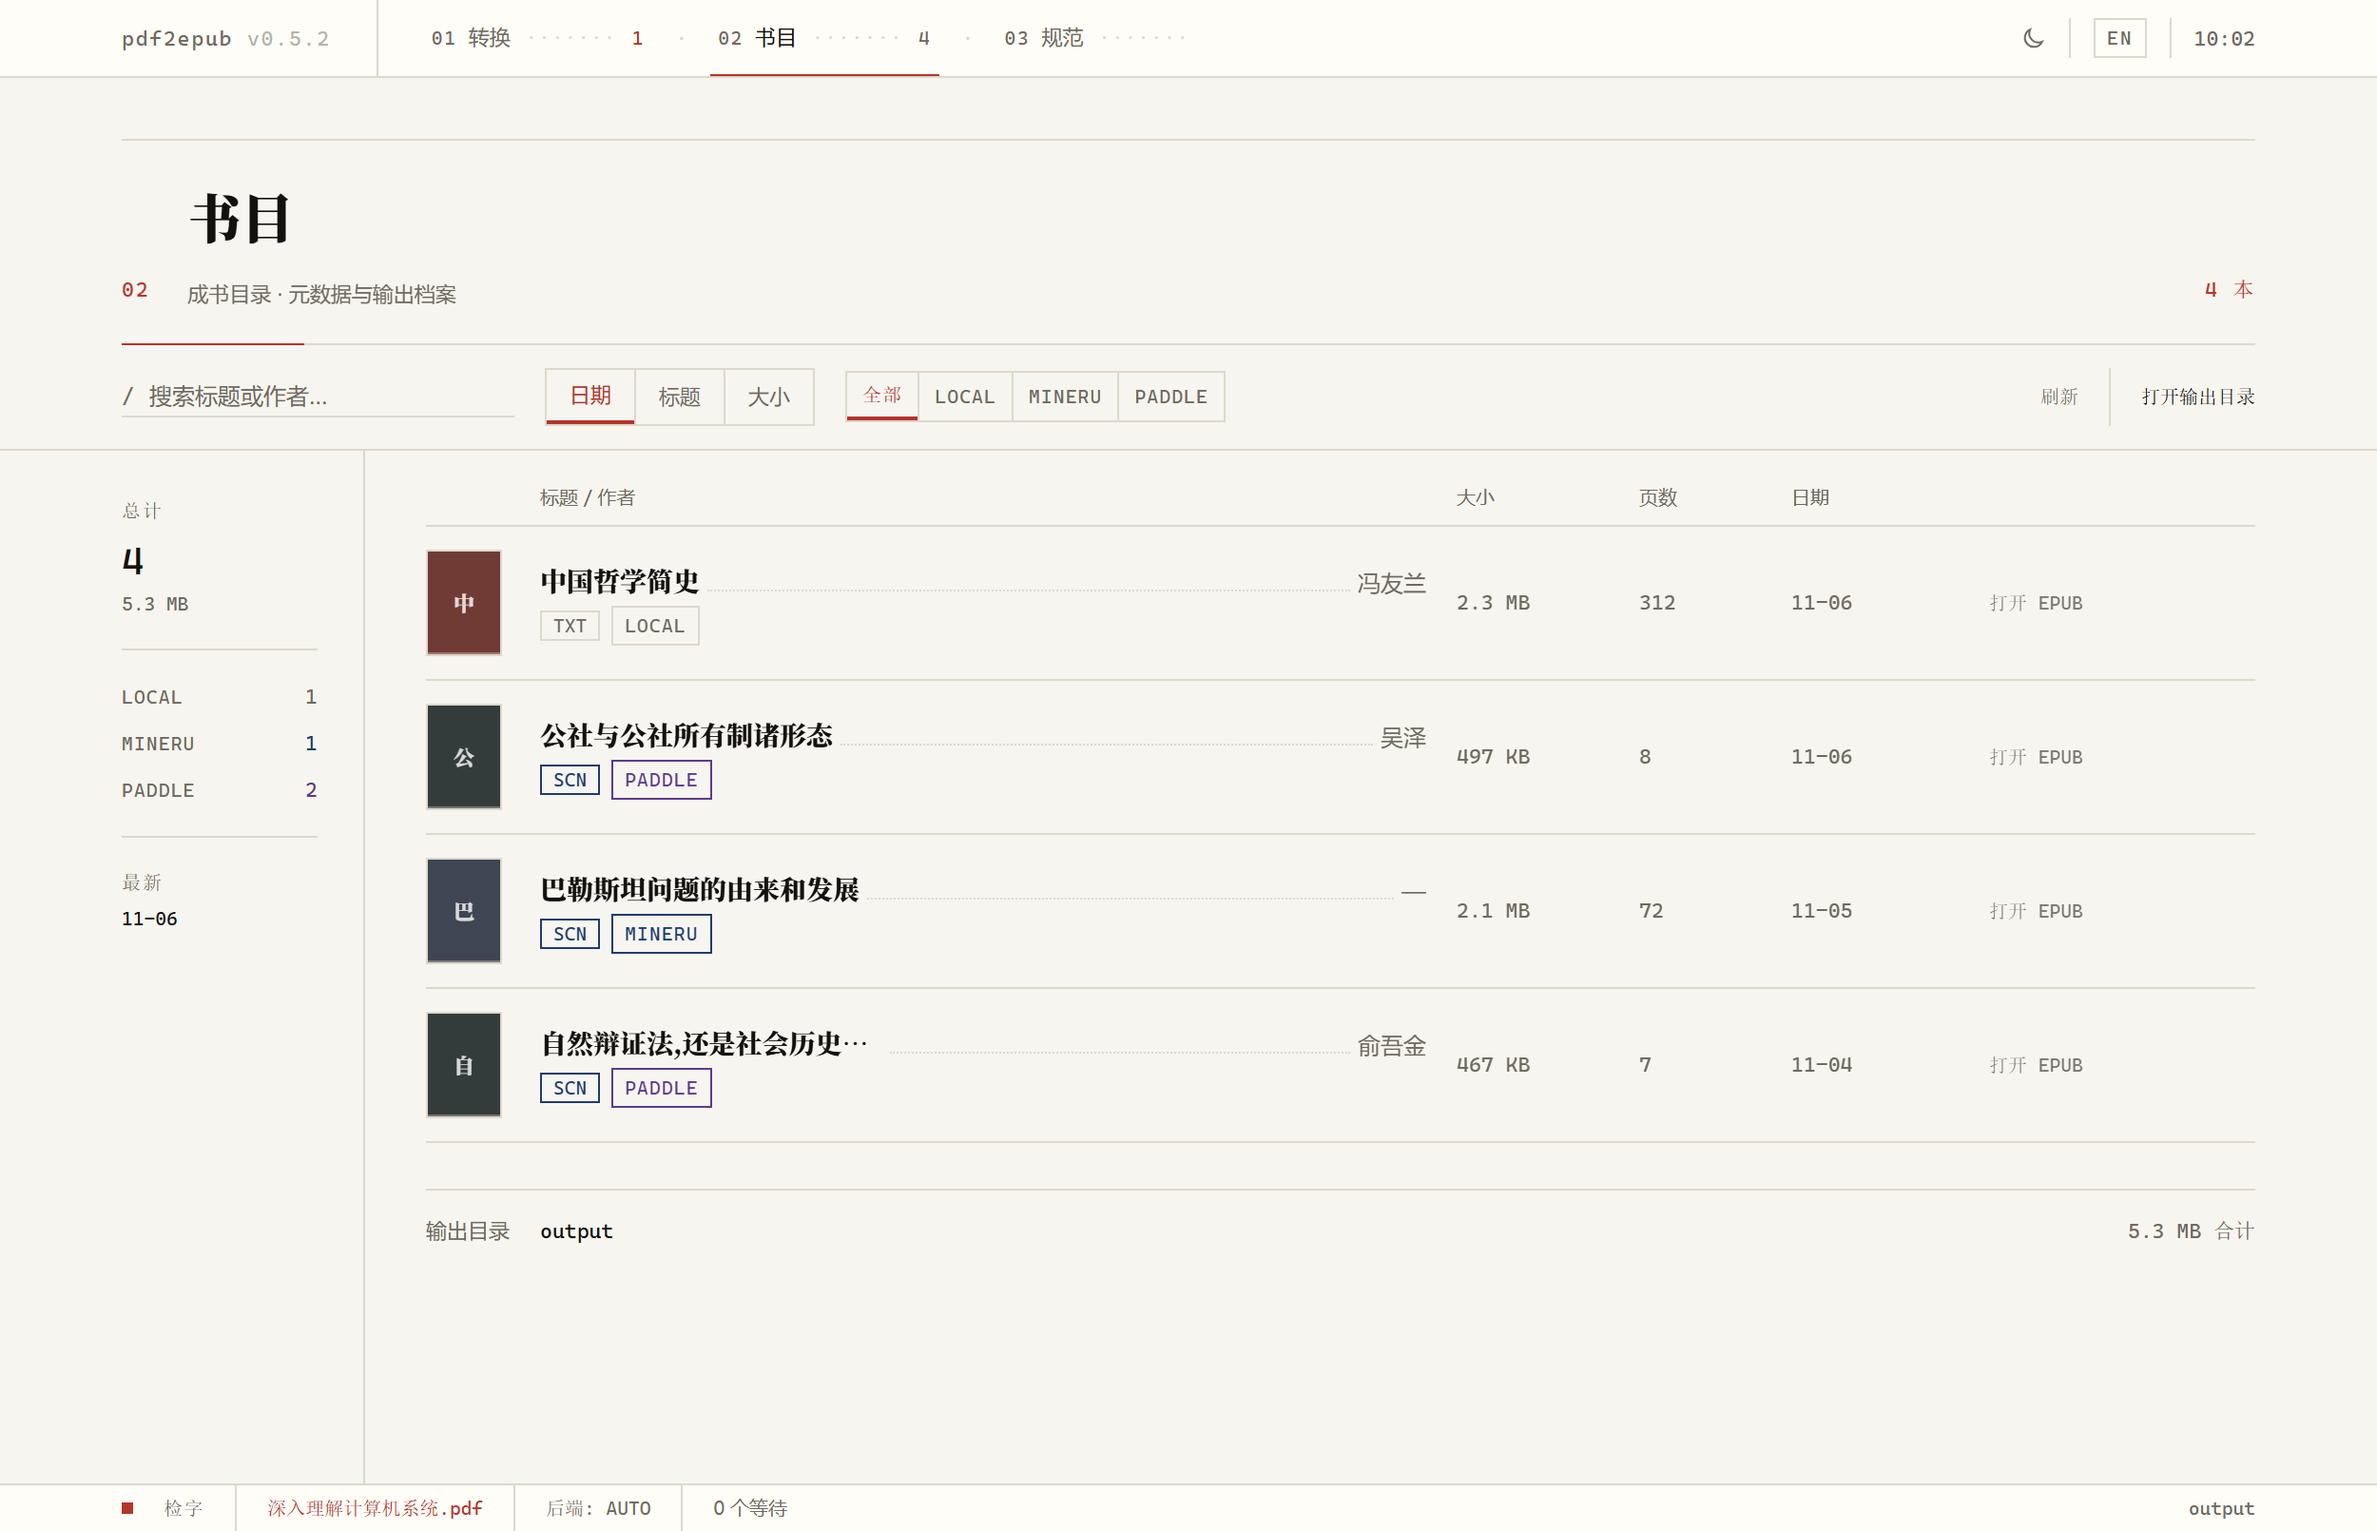
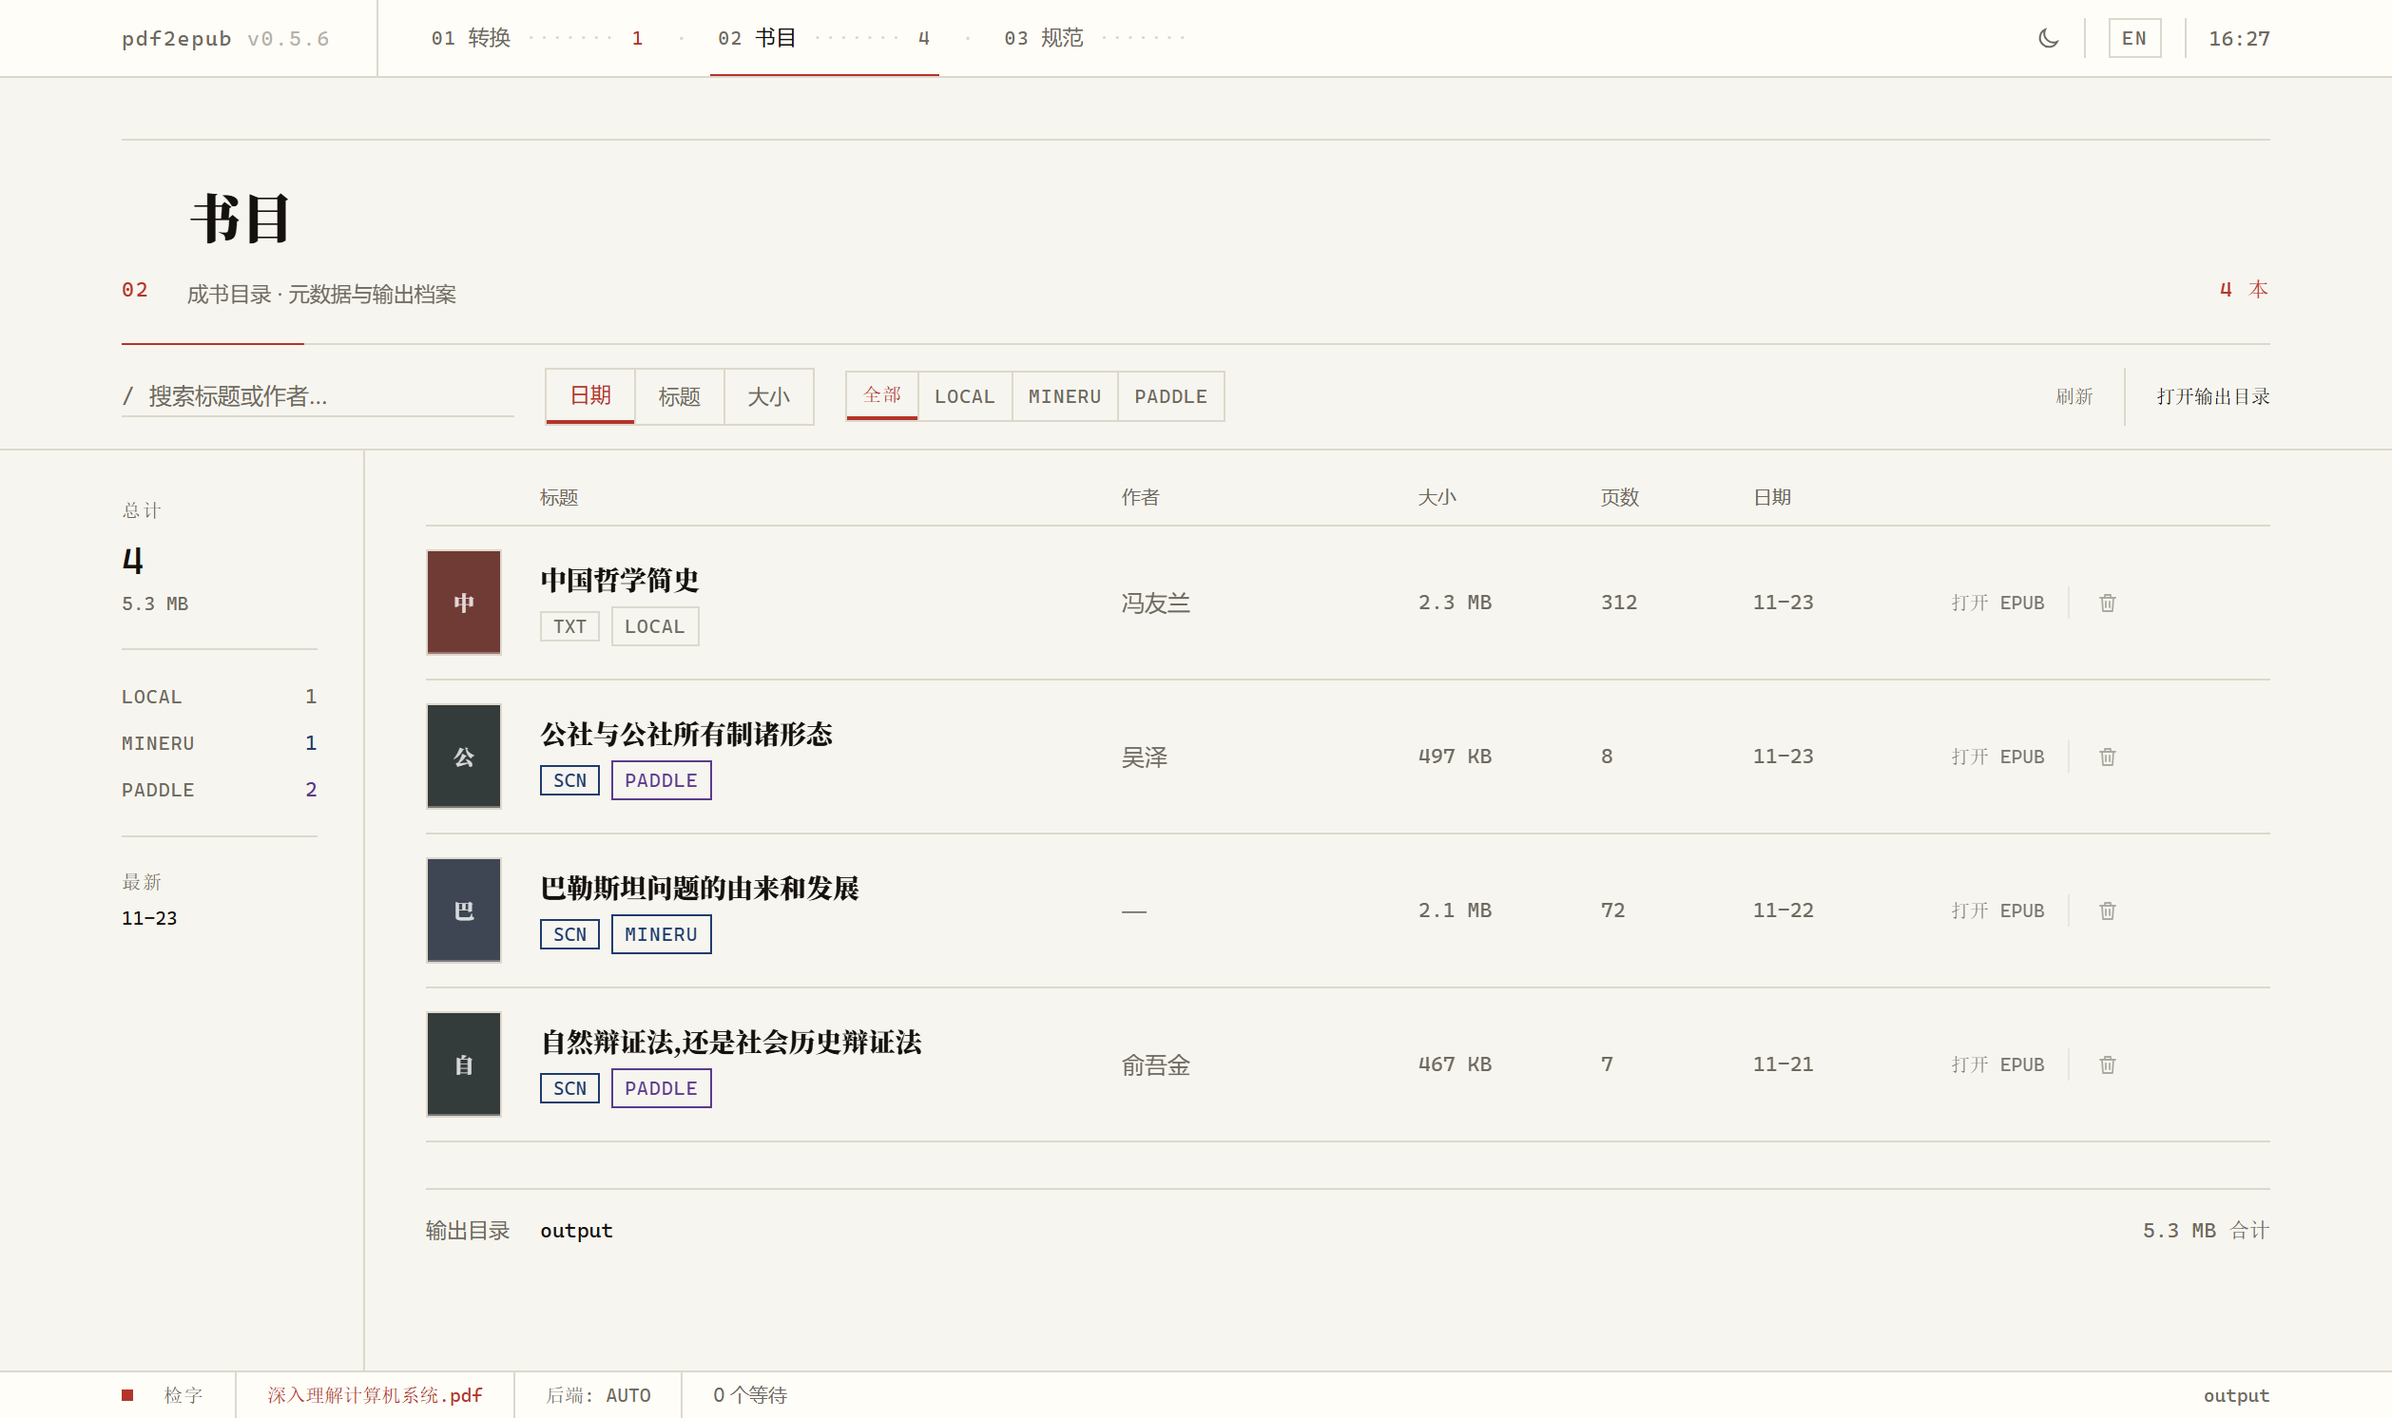
文档:重生成桌面端截图,并按当前模块同步目录结构
- 五张 README 截图是 11-06 拍的,晚于它们的界面改动没有反映进去:书目「标题 /
  作者」分列、队列操作列对齐、预检结果缓存、导入即弹复核表。用
  `desktop/scripts/shot-readme.mjs` 对着当前构建重拍(真实事件链路,不是拼贴):
  convert-light / convert-dark / review-sheet / settings-light / library-light
- 复核表截图确认:列头 TYPE / 页数 / BACKEND / 折帖 与底部花费行都在,没有占位文本
- 设置页截图确认:环境检查两行正常,没有多余的权限告警(权限正常时不显示)
- `docs/design.md` §10 与两份 README 的目录树补上这轮新拆的模块:
  `artifacts.py` / `taskrun.py` / `net.py`,以及 backends 下的
  `safe_zip` / `mineru_http` / `mineru_parts` / `mineru_package`
- README 中英各加一枚 CI 徽章(指向 .github/workflows/ci.yml)

风险:纯文档与图片;截图里的版本号仍是 0.5.6(未发版,不 bump)。
回滚:`git revert` 本提交,旧截图随提交一起回来。

测试:截图由脚本对 `vite preview` 的当前构建生成;文档改动不影响测试。

diff --git a/docs/design.md b/docs/design.md
@@ -183,6 +183,8 @@ src/
   pdf2epub/       # 引擎包(独立命名空间:平铺安装会与 PyPI 的 markdown 等同名包互相覆盖)
     detector/       # PDF 类型检测（含伪文字层识别）
     backends/       # base（抽象）/ pymupdf / mineru / paddleocr
+                    # mineru 另有：safe_zip（受限解压）/ mineru_http（协议层）
+                    #              mineru_parts（分段计划）/ mineru_package（结果包）
     clean/          # IR 清理引擎（options / rules / engine / patch / report / pipeline）
     ir/             # IR 模型、解析、对齐、存储与渲染
     markdown/       # textrules（判定与阈值）/ bold（强调字体 → 粗体）
@@ -190,7 +192,10 @@ src/
     page_result.py  # 页单元：页码、排序、页码注释、扫描区段规划
     events.py       # 阶段事件流（--json-events）
     convert.py      # 自动路由（text / scanned / hybrid）
-    batch.py        # 批处理（重试 / 跳过 / 断点续跑）
+    batch.py        # 批处理编排（跳过 / 断点续跑 / 失败收尾）
+    artifacts.py    # 产物路径与撞名判定、失败产物隔离、上一轮成品保全
+    taskrun.py      # 任务状态、重试决策与批量汇总
+    net.py          # 网络下载保护（超时 / 体积上限 / 原子落盘）
     dryrun.py       # 印前检查
     lang_detect.py  # dc:language 检测
     cli.py          # ebook-converter 入口

diff --git a/README.en.md b/README.en.md
@@ -7,6 +7,7 @@ It handles digital PDFs, scanned PDFs, mixed PDFs, and existing Markdown files. 
 [![Release](https://img.shields.io/github/v/release/WanderSu/pdf2epub?label=release)](https://github.com/WanderSu/pdf2epub/releases)
 [![Stars](https://img.shields.io/github/stars/WanderSu/pdf2epub?label=stars)](https://github.com/WanderSu/pdf2epub)
 [![Platform](https://img.shields.io/badge/platform-Windows-0078D6)](https://github.com/WanderSu/pdf2epub/releases)
+[![CI](https://github.com/WanderSu/pdf2epub/actions/workflows/ci.yml/badge.svg)](https://github.com/WanderSu/pdf2epub/actions/workflows/ci.yml)
 [![License](https://img.shields.io/badge/license-MIT-green)](LICENSE)
 
 [中文](README.md) | **English**
@@ -782,7 +783,10 @@ src/
     ├── ir/             # IR (blocks / alignment / round-trip render)
     ├── markdown/       # cleanup predicates & thresholds
     ├── epub/           # EPUB generation and checks
-    ├── batch.py        # batch processing
+    ├── batch.py        # batch orchestration
+    ├── artifacts.py    # output paths / name conflicts / failure cleanup
+    ├── taskrun.py      # task state / retries / summary
+    ├── net.py          # guarded downloads
     ├── cli.py          # CLI
     ├── convert.py      # conversion flow
     └── paths.py        # paths and configuration

diff --git a/README.md b/README.md
@@ -8,6 +8,7 @@
 [![Release](https://img.shields.io/github/v/release/WanderSu/pdf2epub?label=release)](https://github.com/WanderSu/pdf2epub/releases)
 [![Stars](https://img.shields.io/github/stars/WanderSu/pdf2epub?label=stars)](https://github.com/WanderSu/pdf2epub)
 [![Platform](https://img.shields.io/badge/platform-Windows-0078D6)](https://github.com/WanderSu/pdf2epub/releases)
+[![CI](https://github.com/WanderSu/pdf2epub/actions/workflows/ci.yml/badge.svg)](https://github.com/WanderSu/pdf2epub/actions/workflows/ci.yml)
 [![License](https://img.shields.io/badge/license-MIT-green)](LICENSE)
 
 **中文** | [English](README.en.md)
@@ -791,7 +792,10 @@ src/
     ├── ir/             # IR(块 / 对齐 / 往返渲染)
     ├── markdown/       # 清理判定与阈值
     ├── epub/           # EPUB 生成与检查
-    ├── batch.py        # 批处理
+    ├── batch.py        # 批处理编排
+    ├── artifacts.py    # 产物路径 / 撞名 / 失败收尾
+    ├── taskrun.py      # 任务状态 / 重试 / 汇总
+    ├── net.py          # 网络下载保护
     ├── cli.py          # CLI
     ├── convert.py      # 转换流程
     └── paths.py        # 路径与配置
